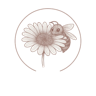
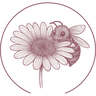
Home: use the new header at the top of the welcome screen
- Site header is always shown on the home page (no separate hero title)
- Hero keeps the big logo, with the new button styles
- Location, text number and Facebook move to a contact row under the buttons
- Header logo mark recolored and cropped so it reads at 32px
- Logo sized to fit one screen on desktop

Claude-Session: https://claude.ai/code/session_01AwvYMY7r8hdnrjCUhe5j8T

diff --git a/src/components/Hero.js b/src/components/Hero.js
@@ -2,83 +2,100 @@ import React from "react";
 import { motion } from "framer-motion";
 import { Link } from "react-router-dom";
 import { FaFacebook } from "react-icons/fa";
+import { FiMessageSquare, FiMapPin } from "react-icons/fi";
 import { track } from "../analytics";
 import "./Hero.css";
-import logoFull from "../assets/melibee-logo-full.png";
+import logoFull from "../assets/webp/melibee-logo-full.webp";
 
+const FACEBOOK_URL =
+  "https://www.facebook.com/people/%F0%9D%99%B5%F0%9D%9A%95%F0%9D%9A%98%F0%9D%9A%A0%F0%9D%9A%8E%F0%9D%9A%9B%F0%9D%9A%9C-%F0%9D%9A%8B%F0%9D%9A%A2-%F0%9D%95%84%F0%9D%95%96%F0%9D%95%9D%F0%9D%95%9A%F0%9D%95%93%F0%9D%95%96%F0%9D%95%96/61578006152375/";
+
+// Welcome screen: the big logo. The name and contact links live in the
+// site header above it, and the contact row sits under the buttons.
 const Hero = () => {
   const scrollToGallery = () => {
-    try { track('click_navigation', { destination: 'gallery' }); } catch (e) {}
-    const gallery = document.getElementById("destacado");
-    if (gallery) {
-      gallery.scrollIntoView({ behavior: "smooth" });
-    }
+    try { track("click_navigation", { destination: "gallery" }); } catch (e) {}
+    const target = document.getElementById("destacado");
+    if (target) target.scrollIntoView({ behavior: "smooth" });
   };
 
   return (
     <section className="hero">
-      <div className="hero-background">
+      <div className="hero-background" aria-hidden="true">
         <div className="hero-gradient-orb orb-1"></div>
         <div className="hero-gradient-orb orb-2"></div>
         <div className="hero-gradient-orb orb-3"></div>
       </div>
-
-      {/* Header content merged into hero */}
-      <motion.div 
-        className="hero-header"
-        initial={{ opacity: 0, y: -20 }}
-        animate={{ opacity: 1, y: 0 }}
-        transition={{ duration: 0.6 }}
-      >
-        <h1 className="hero-header-title">Flowers by Melibee</h1>
-        <div className="hero-header-contact">
-          <p className="hero-header-address">Canutillo · El Paso, TX</p>
-          <a className="hero-header-phone" href="sms:+19152074262" onClick={() => { try { track('click_contact', { method: 'sms', location: 'hero' }); } catch (e) {} }}>Text: 915-207-4262</a>
-          <a
-            className="hero-facebook"
-            href="https://www.facebook.com/people/%F0%9D%99%B5%F0%9D%9A%95%F0%9D%9A%98%F0%9D%9A%A0%F0%9D%9A%8E%F0%9D%9A%9B%F0%9D%9A%9C-%F0%9D%9A%8B%F0%9D%9A%A2-%F0%9D%95%84%F0%9D%95%96%F0%9D%95%9D%F0%9D%95%9A%F0%9D%95%93%F0%9D%95%96%F0%9D%95%96/61578006152375/"
-            target="_blank"
-            rel="noopener noreferrer"
-            onClick={() => { try { track('click_social', { platform: 'facebook', location: 'hero' }); } catch (e) {} }}
-          >
-            <FaFacebook size={20} style={{ marginRight: "6px" }} />
-            Flowers by Melibee
-          </a>
-        </div>
-      </motion.div>
 
       <div className="hero-content">
         <motion.div
           className="hero-logo-container"
           initial={{ opacity: 0, y: 30 }}
           animate={{ opacity: 1, y: 0 }}
-          transition={{ duration: 0.8, delay: 0.2 }}
+          transition={{ duration: 0.8, delay: 0.1 }}
         >
-          <img 
-            src={logoFull} 
-            alt="Flowers by Melibee - Arreglos florales y más" 
-            className="hero-logo-main"
-          />
+          <h1 className="hero-logo-heading">
+            <img
+              src={logoFull}
+              alt="Flowers by Melibee, florería en Canutillo y El Paso, TX"
+              className="hero-logo-main"
+            />
+          </h1>
         </motion.div>
 
         <motion.div
           className="hero-cta"
           initial={{ opacity: 0, y: 20 }}
           animate={{ opacity: 1, y: 0 }}
-          transition={{ duration: 0.8, delay: 0.6 }}
-          style={{ display: "flex", flexDirection: "column", alignItems: "center", gap: "15px" }}
+          transition={{ duration: 0.8, delay: 0.4 }}
         >
-          <button className="cta-button" onClick={scrollToGallery}>
-            Explorar Galería
+          <button type="button" className="mb-btn mb-btn--primary" onClick={scrollToGallery}>
+            Explorar galería
           </button>
           <Link
-            className="cta-button cta-secondary"
+            className="mb-btn mb-btn--outline"
             to="/contacto"
-            onClick={() => { try { track('click_navigation', { destination: 'connect' }); } catch (e) {} }}
+            onClick={() => { try { track("click_navigation", { destination: "connect" }); } catch (e) {} }}
           >
             Conéctate con nosotros
           </Link>
         </motion.div>
+
+        <motion.ul
+          className="hero-contact"
+          initial={{ opacity: 0 }}
+          animate={{ opacity: 1 }}
+          transition={{ duration: 0.8, delay: 0.6 }}
+        >
+          <li>
+            <span className="hero-contact-item">
+              <FiMapPin aria-hidden="true" />
+              Canutillo · El Paso, TX
+            </span>
+          </li>
+          <li>
+            <a
+              className="hero-contact-item hero-contact-link"
+              href="sms:+19152074262"
+              onClick={() => { try { track("click_contact", { method: "sms", location: "hero" }); } catch (e) {} }}
+            >
+              <FiMessageSquare aria-hidden="true" />
+              Text: 915-207-4262
+            </a>
+          </li>
+          <li>
+            <a
+              className="hero-contact-item hero-contact-link"
+              href={FACEBOOK_URL}
+              target="_blank"
+              rel="noopener noreferrer"
+              onClick={() => { try { track("click_social", { platform: "facebook", location: "hero" }); } catch (e) {} }}
+            >
+              <FaFacebook aria-hidden="true" />
+              Facebook
+            </a>
+          </li>
+        </motion.ul>
       </div>
     </section>
   );

diff --git a/src/pages/HomePage.js b/src/pages/HomePage.js
@@ -1,4 +1,4 @@
-import React, { useEffect, useRef, useState } from "react";
+import React, { useEffect, useRef } from "react";
 import { Link, useNavigationType, useSearchParams } from "react-router-dom";
 import { FaWhatsapp } from "react-icons/fa";
 import { FiChevronRight } from "react-icons/fi";
@@ -17,26 +17,12 @@ const HomePage = () => {
   const { groups, featured, loading, error } = useCatalog();
   const [searchParams, setSearchParams] = useSearchParams();
   const navigationType = useNavigationType();
-  const heroRef = useRef(null);
   const sectionRef = useRef(null);
-  const [pastHero, setPastHero] = useState(false);
 
   const filter = searchParams.get("tipo") || "todos";
   const activeGroups = filter === "todos" ? groups : groups.filter((g) => g.slug === filter);
   const shownGroups = activeGroups.length ? activeGroups : groups;
   const total = groups.reduce((n, g) => n + g.items.length, 0);
-
-  // Show the compact header once the welcome logo is out of view.
-  useEffect(() => {
-    const el = heroRef.current;
-    if (!el || !("IntersectionObserver" in window)) return undefined;
-    const io = new IntersectionObserver(
-      ([entry]) => setPastHero(!entry.isIntersecting),
-      { rootMargin: "-64px 0px 0px 0px" }
-    );
-    io.observe(el);
-    return () => io.disconnect();
-  }, []);
 
   // Coming back from an arrangement: return to where the customer was.
   useEffect(() => {
@@ -68,10 +54,8 @@ const HomePage = () => {
 
   return (
     <div className="homepage">
-      <div ref={heroRef}>
-        <Hero />
-      </div>
-      <SiteHeader visible={pastHero} onLogoClick={() => window.scrollTo({ top: 0, behavior: "smooth" })} />
+      <SiteHeader onLogoClick={() => window.scrollTo({ top: 0, behavior: "smooth" })} />
+      <Hero />
 
       <section id="destacado" className="mb-intro" aria-labelledby="mb-intro-title">
         {featured && (

diff --git a/src/components/Hero.css b/src/components/Hero.css
@@ -309,3 +309,95 @@
 .cta-button.cta-secondary:hover {
   background: var(--color-accent-light);
 }
+
+/* ==========================================================================
+   Redesign: the site header sits above the hero, so the hero only holds
+   the logo, the two buttons and a quiet contact row.
+   ========================================================================== */
+.hero {
+  min-height: 100vh;
+  min-height: 100svh;
+  padding: calc(var(--mb-header-h) + 24px) 16px 40px;
+}
+
+.hero-logo-heading {
+  margin: 0;
+  line-height: 0;
+}
+
+.hero-logo-container {
+  margin-bottom: 24px;
+}
+
+.hero-cta {
+  display: flex;
+  flex-wrap: wrap;
+  justify-content: center;
+  gap: 10px;
+  margin: 0 auto 24px;
+  max-width: 480px;
+}
+
+.hero-cta .mb-btn {
+  flex: 1 1 200px;
+}
+
+.hero-contact {
+  list-style: none;
+  margin: 0;
+  padding: 0;
+  display: flex;
+  flex-wrap: wrap;
+  justify-content: center;
+  gap: 4px 8px;
+}
+
+.hero-contact-item {
+  display: inline-flex;
+  align-items: center;
+  gap: 8px;
+  min-height: 44px;
+  padding: 0 12px;
+  font-size: 0.95rem;
+  color: var(--mb-ink-soft);
+}
+
+.hero-contact-item svg {
+  width: 18px;
+  height: 18px;
+  flex-shrink: 0;
+  color: var(--mb-rosa);
+}
+
+.hero-contact-link {
+  border-radius: 22px;
+  color: var(--mb-ink);
+  font-weight: 500;
+}
+
+.hero-contact-link:hover {
+  color: var(--mb-rosa-dark);
+  background: var(--mb-rosa-tint);
+}
+
+@media (max-width: 768px) {
+  .hero {
+    padding-top: calc(var(--mb-header-h) + 16px);
+  }
+
+  .hero-logo-main {
+    width: min(420px, 86vw);
+  }
+
+  .hero-contact {
+    flex-direction: column;
+    align-items: center;
+    gap: 0;
+  }
+}
+
+@media (min-width: 769px) {
+  .hero-logo-main {
+    width: min(440px, 60vh);
+  }
+}

diff --git a/src/components/SiteHeader.js b/src/components/SiteHeader.js
@@ -6,7 +6,7 @@ import { whatsappLink, GENERAL_MESSAGE } from "../catalog/arrangements";
 import mark from "../assets/melibee-mark-96.png";
 import "./SiteHeader.css";
 
-// Compact header that slides in once the big welcome logo has scrolled away.
+// Site header, fixed to the top on the home page.
 const SiteHeader = ({ visible = true, onLogoClick }) => {
   const scrollToArrangements = (e) => {
     const el = document.getElementById("arreglos");
